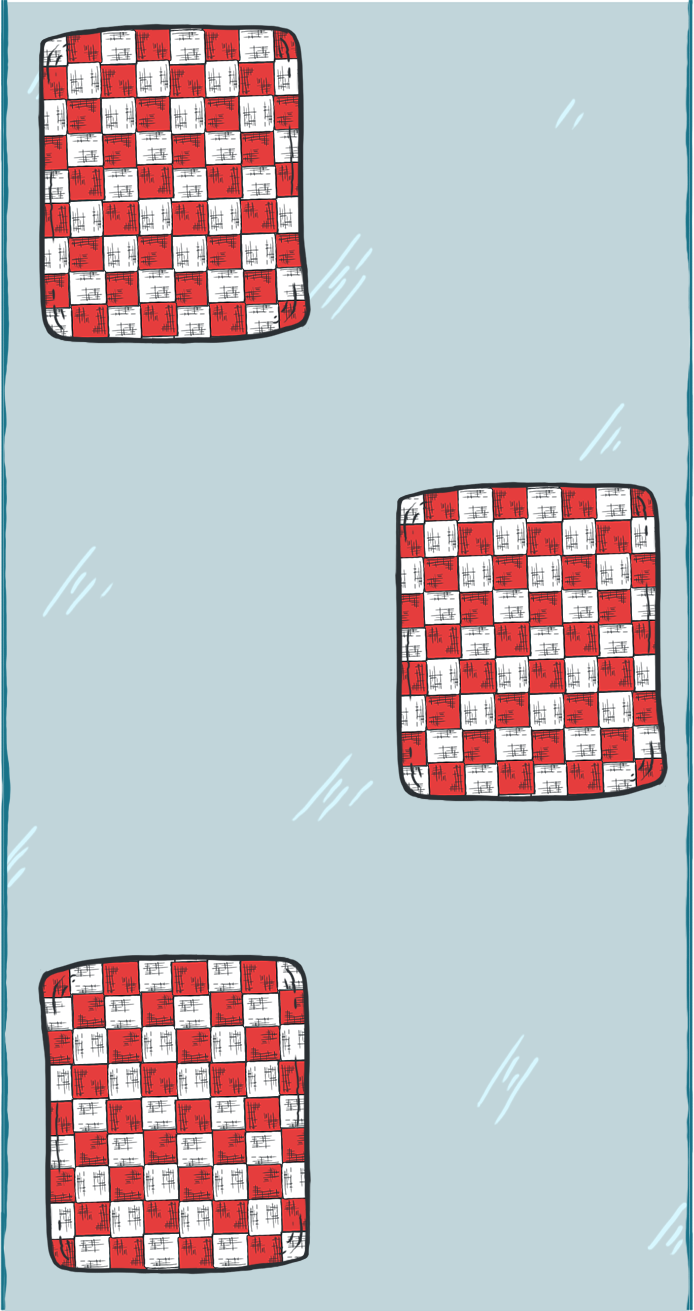
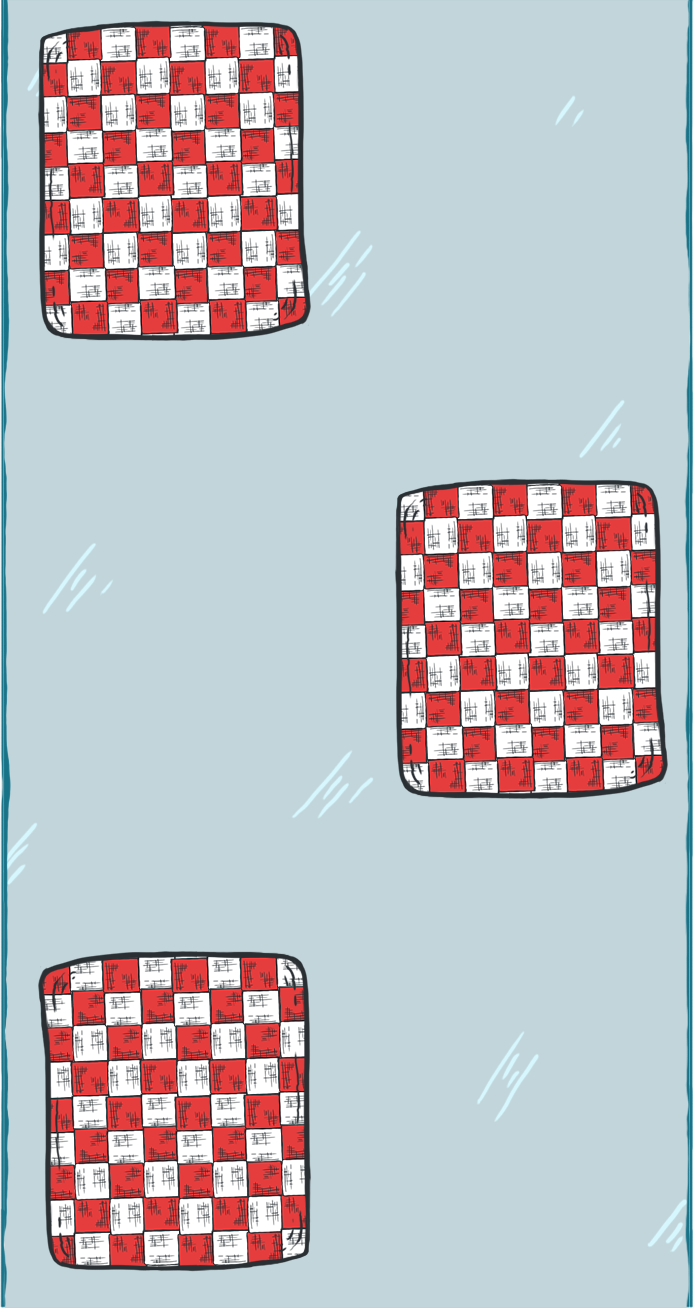
changed images and and fixed table transmitions

diff --git a/src/sprites/MovingItemList.js b/src/sprites/MovingItemList.js
@@ -28,8 +28,8 @@ export default class extends Phaser.Group {
     this.combinedVelocity = 0;
     this.totaldistance = 0;
     this.spawnDistance = 1000;
-    this.changeToGlassDistance = 10000;
-    this.changeToMarbelDistance = 20000;
+    this.changeToGlassDistance = 11000;
+    this.changeToMarbelDistance = 22000;
     this.newTableSprite = "";
     this.newSplitterSprite = "";
 
@@ -64,7 +64,7 @@ export default class extends Phaser.Group {
       this.table2 = new Sprite({
           asset: 'woodenTable',
           x: this.game.world.centerX,
-          y: this.game.world.height - this.table1.height + 1,
+          y: this.game.world.height - this.table1.height,
           anchorX: 0.5,
           anchorY: 1
       });
@@ -73,7 +73,7 @@ export default class extends Phaser.Group {
       this.stitcher = new Sprite({
           asset: 'woodenPatch',
           x: this.game.world.centerX,
-          y: this.game.world.height - (this.table1.height * 2) + 1,
+          y: this.game.world.height - (this.table1.height * 2),
           anchorX: 0.5,
           anchorY: 1
       });
@@ -83,20 +83,22 @@ export default class extends Phaser.Group {
   update() {
 
     this.totaldistance += this.velocityY;
-    if(this.totaldistance >= this.changeToGlassDistance) {
-        console.log("shit");
-        this.changeToGlassDistance = 1000000000000;
-        this.newTableSprite = "glassTable";
-        this.newSplitterSprite = "glassPatch";
-        this.spawnBegin = true;
-    } else if (this.totaldistance >= this.changeToMarbelDistance) {
-        console.log("shit2");
-        this.totaldistance = 0;
-        this.changeToMarbelDistance = 1000000000000;
-        this.newTableSprite = "marbelTable";
-        this.newSplitterSprite = "marbelPatch";
-        this.spawnBegin = true;
+    var tempPosY = this.stitcher.position.y + this.velocityY;
+    if(tempPosY > (this.game.world.height + this.stitcher.height)) {
+        if(this.totaldistance >= this.changeToGlassDistance) {
+            this.changeToGlassDistance = 1000000000000;
+            this.newTableSprite = "glassTable";
+            this.newSplitterSprite = "glassPatch";
+            this.spawnBegin = true;
+        } else if (this.totaldistance >= this.changeToMarbelDistance) {
+            this.totaldistance = 0;
+            this.changeToMarbelDistance = 1000000000000;
+            this.newTableSprite = "marbelTable";
+            this.newSplitterSprite = "marbelPatch";
+            this.spawnBegin = true;
+        }
     }
+
 
     // update the distance traveled
     this.combinedVelocity += this.velocityY;
@@ -122,41 +124,40 @@ export default class extends Phaser.Group {
       if (item.position.y > screen.height && item.key != "floor" && item.key != "woodenTable" && item.key != "woodenPatch" && item.key != "woodenGlass" && item.key != "glassTable" && item.key != "glassPatch" && item.key != "glassMarbel" && item.key != "marbelTable" && item.key != "marbelPatch") {
         // destroy the item out of bounds
         item.destroy()
-      } else if (item.position.y > worldHeight + backgroundHeight) {
-
-            // berekenen de pixel verschil buiten het scherm en dan updaten als ie buiten het scherm valt
-            if(item.key == "floor") {
-                let temp = item.position.y - (worldHeight + backgroundHeight);
-                item.position.y = worldHeight - backgroundHeight + temp + 1; // insurence pixel
-            } else if (item.key == "woodenGlass" || item.key == "woodenPatch") {
-                let temp = item.position.y - (worldHeight + tussenpartHeight);
-                item.position.y = worldHeight - (backgroundHeight * 2) + temp + 1; // insurence pixel
-                if(newSplitterSprite == "glassPatch" && item.key != "glassPatch") {
-                    if(spawnBegin == true) {
-                        item.loadTexture("woodenGlass");
-                        spawnBegin = false;
-                    } else {
-                        item.loadTexture(newSplitterSprite);
-                    }
-                }
-                if (newSplitterSprite == "marbelPatch" && item.key != "marbelPatch") {
-                    if(spawnBegin == true) {
-                        item.loadTexture("glassMarbel");
-                        spawnBegin = false;
-                    } else {
-                        item.loadTexture(newSplitterSprite);
-                    }
-                }
-            } else {
-                let temp = item.position.y - (worldHeight + tableHeight);
-                item.position.y = worldHeight - tableHeight - tussenpartHeight + temp + 1;
-                if(newTableSprite == "glassTable" && item.key != "glassTable") {
-                    item.loadTexture(newTableSprite);
-                }
-                if (newTableSprite == "marbelTable" && item.key != "marbelTable") {
-                    item.loadTexture(newTableSprite);
-                }
-            }
+      } else {
+          // berekenen de pixel verschil buiten het scherm en dan updaten als ie buiten het scherm valt
+          if(item.key == "floor" && item.position.y > worldHeight + backgroundHeight) {
+              let temp = item.position.y - (worldHeight + backgroundHeight);
+              item.position.y = worldHeight - backgroundHeight + temp + 1; // insurence pixel
+          } else if ((item.key == "woodenGlass" || item.key == "woodenPatch" || item.key == "glassPatch" || item.key == "glassMarbel" || item.key == "marbelPatch") && item.position.y > worldHeight + tussenpartHeight) {
+              let temp = item.position.y - (worldHeight + tussenpartHeight);
+              item.position.y = worldHeight - (tableHeight * 2) + temp; // insurence pixel
+              if(newSplitterSprite == "glassPatch" && item.key != "glassPatch") {
+                  if(spawnBegin == true) {
+                      item.loadTexture("woodenGlass");
+                      spawnBegin = false;
+                  } else {
+                      item.loadTexture(newSplitterSprite);
+                  }
+              }
+              if (newSplitterSprite == "marbelPatch" && item.key != "marbelPatch") {
+                  if(spawnBegin == true) {
+                      item.loadTexture("glassMarbel");
+                      spawnBegin = false;
+                  } else {
+                      item.loadTexture(newSplitterSprite);
+                  }
+              }
+          } else if (item.position.y > worldHeight + tableHeight && item.key != "floor" ) {
+              let temp = item.position.y - (worldHeight + tableHeight);
+              item.position.y = worldHeight - tableHeight - tussenpartHeight + temp;
+              if(newTableSprite == "glassTable" && item.key != "glassTable") {
+                  item.loadTexture(newTableSprite);
+              }
+              if (newTableSprite == "marbelTable" && item.key != "marbelTable") {
+                  item.loadTexture(newTableSprite);
+              }
+          }
       }
     });
     this.spawnBegin = spawnBegin;

diff --git a/src/sprites/FartMeter.js b/src/sprites/FartMeter.js
@@ -9,8 +9,8 @@ export default class FartMeter extends Phaser.Group {
     this.x = x;
     this.y = y;
 
-    this.fullValue = 100000;
-    this.filledValue = 80000;
+    this.fullValue = 1000;
+    this.filledValue = 800;
 
     this.fartCost = 5;
 
